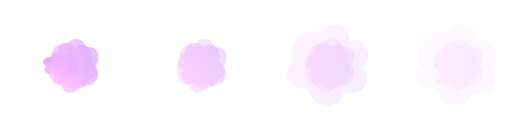
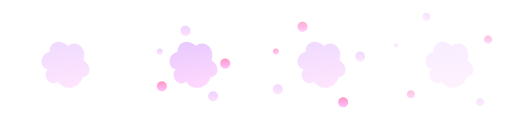
decent state before changing projectile animation stuff

diff --git a/js/core/AnimationSystem.js b/js/core/AnimationSystem.js
@@ -70,6 +70,44 @@ export const AnimationSystem = {
     requestAnimationFrame(updateFrame);
   },
 
+  // animations pour les projectiles utilisant une spritesheet
+  animateSpriteSheetLoop({element, frameWidth, frameHeight, frameCount,columns = frameCount, duration, loop = true}) {
+    const startTime = performance.now();
+
+    const updateFrame = (timestamp) => {
+      if (!element.isConnected) return;
+
+      const elapsed = timestamp - startTime;
+
+      let progress;
+
+      if (loop) {
+        progress = (elapsed % duration) / duration;
+      } else {
+        progress = Math.min(elapsed / duration, 1);
+      }
+
+      const frame = Math.min(
+        frameCount - 1,
+        Math.floor(progress * frameCount)
+      );
+
+      const column = frame % columns;
+      const row = Math.floor(frame / columns);
+
+      element.style.backgroundPosition = `
+        -${column * frameWidth}px
+        -${row * frameHeight}px
+      `;
+
+      if (!loop && progress >= 1) return;
+
+      requestAnimationFrame(updateFrame);
+    };
+
+    requestAnimationFrame(updateFrame);
+  },
+
   playSpin(el) {
     el.classList.remove("anim-spin");
     void el.offsetWidth;
@@ -386,10 +424,10 @@ export const AnimationSystem = {
       return;
     }
 
-    //if (impactEffect === "fireExplosion") {
-    //  this.playFireImpact(effectsLayer, target.x, target.y);
-    //  return;
-    //}
+    if (impactEffect === "scrapCloud") {
+      this.playScrapImpact(effectsLayer, target.x, target.y);
+      return;
+    }
   },
 
   playToxicImpact(effectsLayer, x, y) {
@@ -401,13 +439,18 @@ export const AnimationSystem = {
 
     effectsLayer.appendChild(impact);
 
-    this.animateSpriteSheet({
-      element: impact,
-      frameWidth: 128,
-      frameHeight: 128,
-      frameCount: 9,
-      duration: 450,
-      columns: 9
-    });
+    this.animateSpriteSheet({element: impact, frameWidth: 128, frameHeight: 128, frameCount: 9, duration: 450, columns: 9});
+  },
+
+  playScrapImpact(effectsLayer, x, y) {
+    const impact = document.createElement("div");
+
+    impact.className = "sprite-effect scrap-impact-effect";
+    impact.style.left = `${x}px`;
+    impact.style.top = `${y}px`;
+
+    effectsLayer.appendChild(impact);
+
+    this.animateSpriteSheet({element: impact, frameWidth: 128, frameHeight: 128, frameCount: 9, duration: 450, columns: 9});
   }
 };

diff --git a/js/config/unitDefinitions.js b/js/config/unitDefinitions.js
@@ -109,7 +109,7 @@ export const UnitDefinitions = {
     targetType: "ground",
     canMove: false,
     canAttack: true,
-    attackAnimation: "toxicAttack",
+    attackAnimation: "iceWind",
     sounds: {
       spawn: null,
       attack: "assets/sounds/units/brumisateur-attack.mp3",
@@ -129,7 +129,7 @@ export const UnitDefinitions = {
     damage: 25,
     attackSpeed: 1.2,
     movementSpeed: 50,
-    attackRange: 250,
+    attackRange: 150,
     hitboxRadius: 26,
     targetType: "buildings",
     canMove: true,
@@ -137,6 +137,10 @@ export const UnitDefinitions = {
     attackAnimation: "projectile",
     projectile: {
       type: "toxicProjectile",
+      spriteSheet: {
+        image: "assets/effects/toxic-attack.png",
+        frameWidth: 64, frameHeight: 64, frameCount: 9, columns: 9, duration: 800, loop: true
+      },
       travelDuration: {
         min: 220,
         max: 800,
@@ -265,7 +269,7 @@ export const UnitDefinitions = {
     cost: 6,
     hp: 800,
     damage: 170,
-    attackSpeed: 0.2,
+    attackSpeed: 0.3,
     movementSpeed: 20,
     attackRange: 110,
     hitboxRadius: 26,
@@ -274,13 +278,13 @@ export const UnitDefinitions = {
     canAttack: true,
     attackAnimation: "projectile",
     projectile: {
-      type: "toxicProjectile",
+      type: "scrapProjectile",
       travelDuration: {
         min: 220,
         max: 800,
-        pixelsPerMillisecond: 2.2
+        pixelsPerMillisecond: 4.2
       },
-      impactEffect: "toxicCloud"
+      impactEffect: "scrapCloud"
     },
     aoeRadius: 80,
     aoeCenter: "target",

diff --git a/style.css b/style.css
@@ -1841,9 +1841,16 @@ button {
   }
 }
 
+/* effets d'impacts */
 .toxic-impact-effect {
   background-image: url("assets/effects/toxic-cloud-impact.png");
-  background-size: 524px 128px;
+  background-size: 512px 128px;
+  animation: toxicImpactPop 450ms ease-out forwards;
+}
+
+.scrap-impact-effect {
+  background-image: url("assets/effects/scrap-impact.png");
+  background-size: 872px 128px;
   animation: toxicImpactPop 450ms ease-out forwards;
 }
 
@@ -1899,15 +1906,15 @@ button {
     0 0 16px rgba(236, 72, 153, 0.8);
 }
 
-.projectile-fireball {
+.projectile-scrapProjectile {
   background: radial-gradient(
     circle at 35% 35%,
-    #fef3c7,
-    #f97316 45%,
-    #dc2626
+    #565654,
+    #54504e 45%,
+    #88570d
   );
 
   box-shadow:
-    0 0 8px #f97316,
+    0 0 8px #944004,
     0 0 18px #dc2626;
 }
